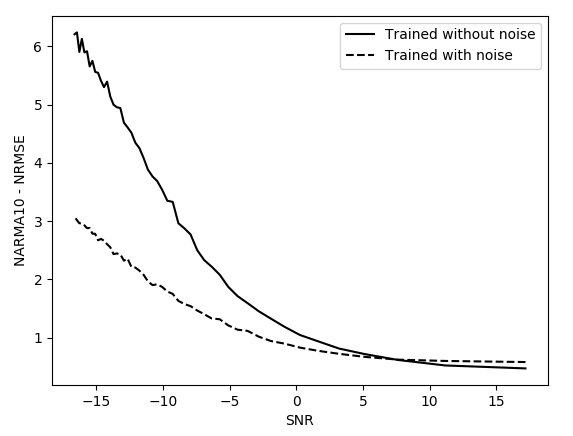
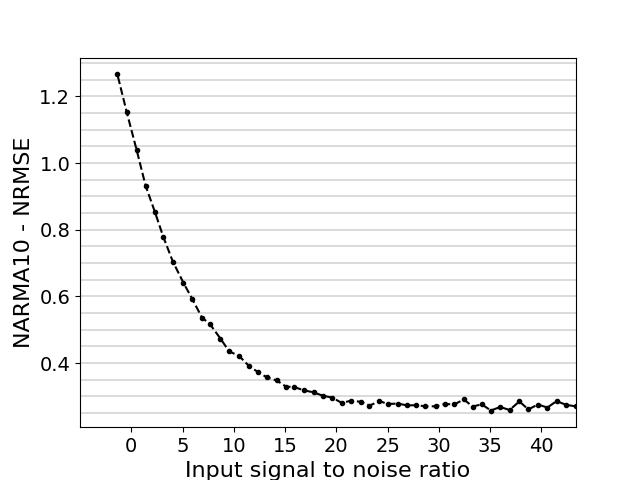
Implement noisy input.

diff --git a/py/ESN.py b/py/ESN.py
@@ -16,7 +16,7 @@ class ESN(nn.Module):
     def __init__(self, hidden_nodes=200, spectral_radius=0.9, washout=200,
                  w_in_density=1.0, w_out_density=1.0, w_res_density=1.0,
                  input_scaling=1.0, w_in_distrib=Distribution.uniform,
-                 w_res_distrib=Distribution.uniform, awngn_train_std=0.0,
+                 w_res_distrib=Distribution.uniform, awgn_train_std=0.0,
                  awgn_test_std=0.0):
         super(ESN, self).__init__()
 
@@ -30,6 +30,8 @@ class ESN(nn.Module):
         self.input_scaling = input_scaling
         self.w_in_distrib = w_in_distrib
         self.w_res_distrib = w_res_distrib
+        self.awgn_train_std = awgn_train_std
+        self.awgn_test_std = awgn_test_std
 
         # We can't just mask w_out with the density, as the masked out nodes
         # must be hidden during training as well.
@@ -69,15 +71,27 @@ class ESN(nn.Module):
         timeseries_len = u.size()[0]
         X = torch.zeros(timeseries_len, self.output_dim)
         x = torch.zeros(self.hidden_nodes)
+        v = torch.zeros(timeseries_len)
 
         for t in range(timeseries_len):
-            u_t = self.w_in * u[t]
+            # Add AWGN to the input signal.
+            v_t = torch.zeros(1)
+            if y is not None and self.awgn_train_std > 0.0:
+                v_t = v_t.normal_(mean=0.0, std=self.awgn_train_std)
+            elif y is None and self.awgn_test_std > 0.0:
+                v_t = v_t.normal_(mean=0.0, std=self.awgn_test_std)
+            v[t] = v_t
+
+            # Calculate the next state of each node as an integration of
+            # incoming connections.
+            u_t = self.w_in * (u[t] + v_t)
             x_t = self.w_res.mv(x)
             x = self.f(u_t + x_t)
             X[t] = x[self.w_out_mask]
 
-        # Record the last time series, as it may be used for further analysis.
+        # Record the previous time series passed through the reservoir.
         self.X = X
+        self.v = v
 
         X = X[self.washout:]
         y = y[self.washout:] if y is not None else y

diff --git a/py/plot.py b/py/plot.py
@@ -30,6 +30,13 @@ def show(fn):
     return wrapped
 
 
+def default_plot_settings(output, xmin, xmax):
+    maxlim = np.max(output) + 0.05
+    minlim = np.min(output) - 0.05
+    plt.ylim(minlim, maxlim)
+    plt.hlines(y = np.arange(0.0, 1.05, 0.05), xmin=xmin, xmax=xmax, linewidth=0.2)
+
+
 def get_time():
     return datetime.now().strftime("%m-%d-%Y %H:%M:%S")
 
@@ -217,13 +224,25 @@ def plot_w_res_density_w_res_distrib(dataset):
     plt.ylim(minlim, maxlim)
 
 
+@default_font_size
 @show
 def plot_input_noise(dataset):
-    params = { 'awgn_test_std': np.arange(0.00, 0.502, 0.02) }
-    nrmses = evaluate_esn_1d(dataset, params, runs_per_iteration=10)
+    # Logspace from 0.001 to 0.17, as 0.17 is an SNR of ~0.0 with NARMA10.
+    noise_std = np.logspace(-3.0, -0.769, 50)
+    params = { 'awgn_test_std': noise_std }
+    test_snrs = []
+    nrmses = evaluate_esn_1d(dataset, params, runs_per_iteration=10, test_snrs=test_snrs)
 
-    # We need the SNR of u/v.
-    u_train, _, u_test, _ = dataset
+    plt.plot(test_snrs, nrmses, color='black', linestyle='dashed', marker='.')
+
+    plt.ylabel('NARMA10 - NRMSE')
+    plt.xlabel('Input signal to noise ratio')
+    plt.xticks(np.arange(0, max(test_snrs) + 1, 5))
+
+    maxlim = np.max(nrmses) + 0.05
+    minlim = np.min(nrmses) - 0.05
+    plt.ylim(minlim, maxlim)
+    plt.hlines(y = np.arange(0.0, 2.0, 0.05), xmin=-5.0, xmax=max(test_snrs), linewidth=0.2)
 
 
 @default_font_size
@@ -239,10 +258,7 @@ def performance_sweep(dataset):
     plt.xlabel('Reservoir size')
     plt.xticks(np.arange(min(hidden_nodes), max(hidden_nodes) + 1, 50))
 
-    maxlim = np.max(nrmses) + 0.05
-    minlim = np.min(nrmses) - 0.05
-    plt.ylim(minlim, maxlim)
-    plt.hlines(y = np.arange(0.0, 1.05, 0.05), xmin=50, xmax=200, linewidth=0.2)
+    default_plot_settings(nrmses, 50, 200)
 
 
 @show

diff --git a/py/gridsearch.py b/py/gridsearch.py
@@ -3,9 +3,11 @@ from sklearn.model_selection import ParameterGrid
 
 from ESN import ESN
 from metric import evaluate_esn, eval_esn_with_params
+from util import snr
 
 
-def evaluate_esn_1d(dataset, params, runs_per_iteration=1):
+def evaluate_esn_1d(dataset, params, runs_per_iteration=1, train_snrs=None,
+                    test_snrs=None):
     if len(params.keys()) != 1:
         class InvalidParameterDictException(Exception):
             pass
@@ -15,15 +17,29 @@ def evaluate_esn_1d(dataset, params, runs_per_iteration=1):
     param_grid = ParameterGrid(params)
     p1 = sorted(params.keys())[0]
 
+    # We need the SNR of u/v.
+    u_train, _, u_test, _ = dataset
+
     for params in param_grid:
         print(params)
         nrmses = []
+        train_snrs_t = []
+        test_snrs_t = []
 
         for i in range(runs_per_iteration):
             esn = ESN(**params)
             nrmses.append(evaluate_esn(dataset, esn))
+            if train_snrs is not None:
+                train_snrs_t.append(snr(u_train.var(), esn.v.var()))
+            if test_snrs is not None:
+                test_snrs_t.append(snr(u_test.var(), esn.v.var()))
+                v = esn.v
 
         output.append(np.mean(nrmses))
+        if train_snrs is not None:
+            train_snrs.append(np.mean(train_snrs_t))
+        if test_snrs is not None:
+            test_snrs.append(np.mean(test_snrs_t))
 
     return output
 

diff --git a/sections/results.tex b/sections/results.tex
@@ -34,6 +34,17 @@ radius of 0.9.
 
 \subsection{Noise}
 
+Key point: as long as we train with noise, we become more robust.
+
+\begin{figure}[H]
+  \centering
+  \includegraphics[width=2.5in]{img/input_noise_snr.png}
+  \caption{
+    Input noise SNR versus NRMSE
+  }
+  \label{performance}
+\end{figure}
+
 \subsection{Measurement equipment accuracy}
 
 \subsection{Partially visible state}

diff --git a/py/util.py b/py/util.py
@@ -1,5 +1,10 @@
 import torch
+import math
 
 
 def spectral_radius(w):
     return torch.max(torch.abs(torch.eig(w)[0])).item()
+
+
+def snr(var_u, var_v):
+    return 10*math.log10(var_u/var_v)
